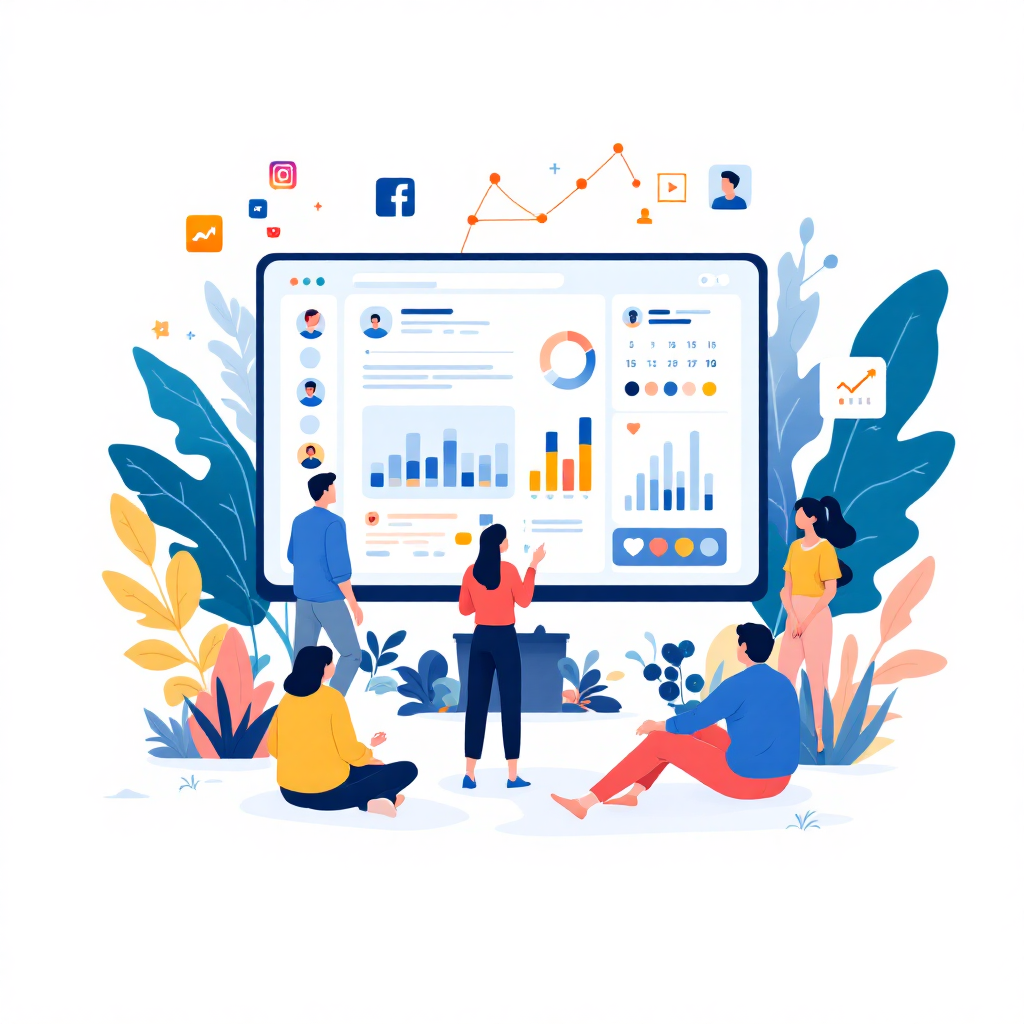
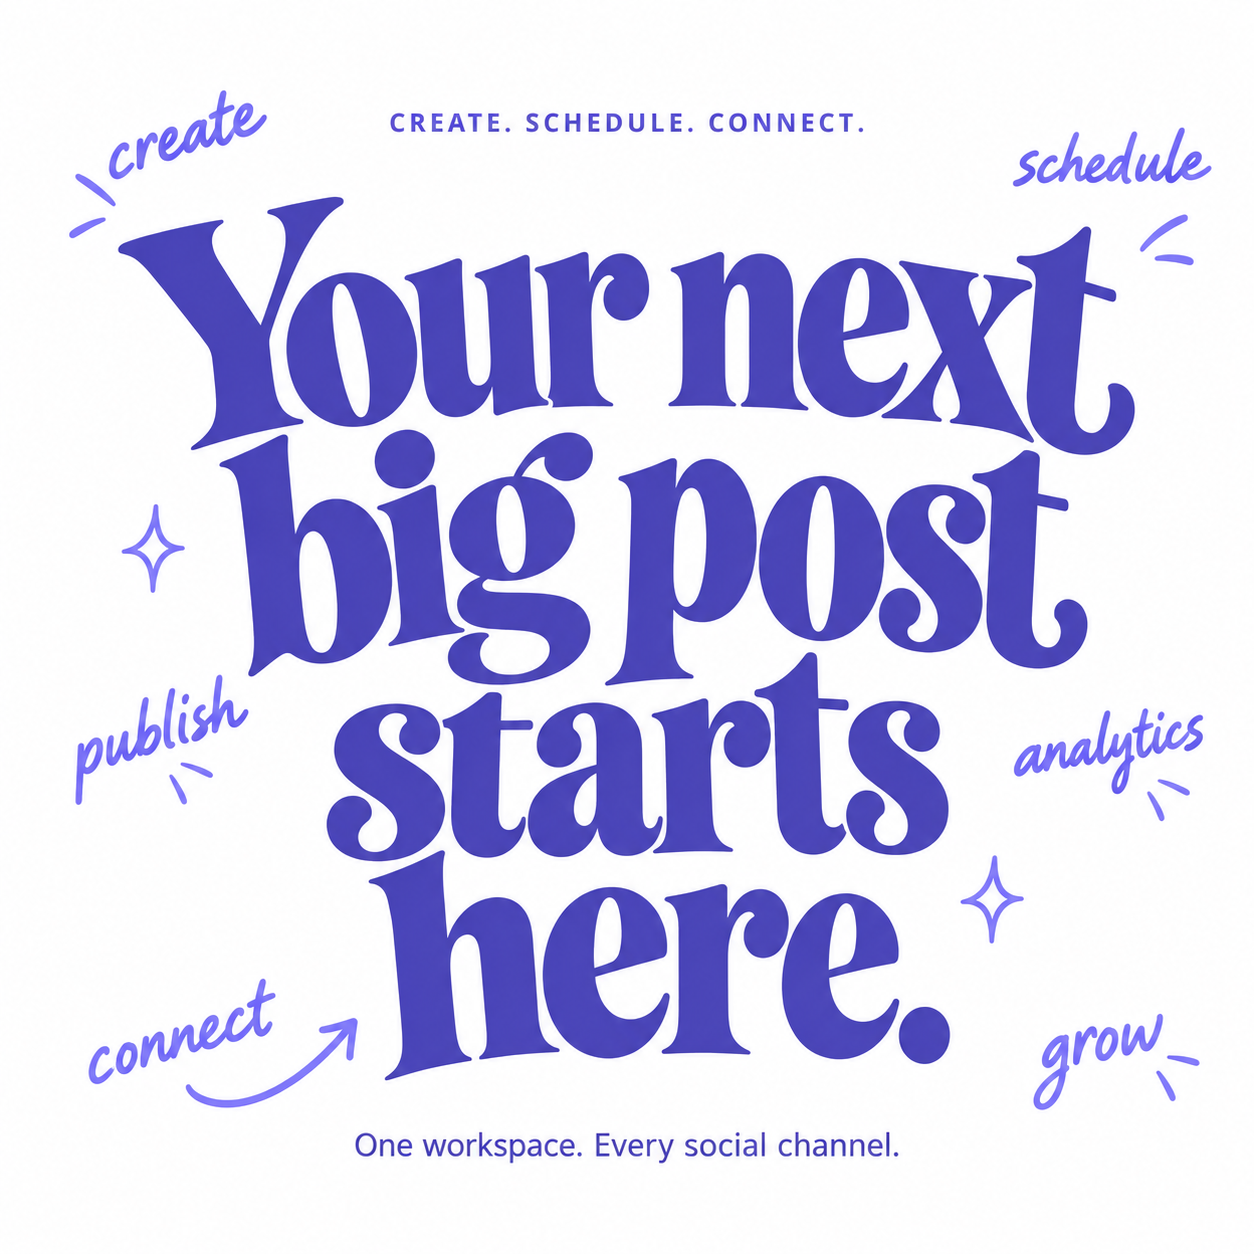
need to pull main

diff --git a/frontend/pages/Home/MainContent.tsx b/frontend/pages/Home/MainContent.tsx
@@ -287,10 +287,6 @@ export default function MainContent() {
                 <p className={styles.aiCaptionText}>{AI_BEFORE_CAPTION}</p>
               </div>
 
-              <span className={styles.aiArrow} aria-hidden="true">
-                {Icon.send}
-              </span>
-
               <div className={`${styles.aiCaptionBlock} ${styles.aiCaptionAfter}`}>
                 <span className={styles.aiCaptionLabel}>After</span>
                 <p className={styles.aiCaptionText}>{AI_AFTER_CAPTION}</p>
@@ -376,10 +372,15 @@ export default function MainContent() {
           </p>
         </div>
         <div className={styles.screenshotVisual}>
-          <div className={styles.appMockupStandard}>
-            {/* Swap for <Image src="/images/calendar-preview.png" alt="Planning calendar" fill /> */}
-            <span className={styles.placeholderIcon}>{Icon.calendar}</span>
-            <span className={styles.placeholderText}>Add your Planning Calendar screenshot here</span>
+          <div className={`${styles.appMockupStandard} ${styles.sampleDashboardFrame}`}>
+            <Image
+              src="/calimg.png"
+              alt="Sample monthly content calendar with scheduled posts for multiple social platforms"
+              width={2880}
+              height={1624}
+              className={styles.sampleDashboardImage}
+              sizes="(max-width: 980px) calc(100vw - 48px), 50vw"
+            />
           </div>
         </div>
       </section>
@@ -387,10 +388,15 @@ export default function MainContent() {
       {/* 8. ANALYTICS PREVIEW */}
       <section className={styles.screenshotSectionAlt} id="analytics">
         <div className={styles.screenshotVisual}>
-          <div className={styles.appMockupStandard}>
-            {/* Swap for <Image src="/images/analytics-preview.png" alt="Analytics dashboard" fill /> */}
-            <span className={styles.placeholderIcon}>{Icon.barChart}</span>
-            <span className={styles.placeholderText}>Add your Analytics Dashboard screenshot here</span>
+          <div className={`${styles.appMockupStandard} ${styles.sampleDashboardFrame} ${styles.analyticsDashboardFrame}`}>
+            <Image
+              src="/analyticsimg.png"
+              alt="Sample YouTube analytics dashboard with performance metrics and a views, likes, and comments chart"
+              width={1596}
+              height={1260}
+              className={styles.sampleDashboardImage}
+              sizes="(max-width: 980px) calc(100vw - 48px), 50vw"
+            />
           </div>
         </div>
         <div className={styles.screenshotText}>

diff --git a/frontend/pages/Auth/register.tsx b/frontend/pages/Auth/register.tsx
@@ -112,7 +112,7 @@ export default function SignupPage() {
         {/* HEADER */}
         <header className={styles.authHeader}>
           <div className={styles.logo}>
-            SOci
+            Socia
           </div>
         </header>
 
@@ -214,7 +214,10 @@ export default function SignupPage() {
 
           {/* RIGHT */}
           <section className={styles.illustrationSection}>
-            <img src="/registerimg.png" alt="Register illustration" />
+            <img
+              src="/registerimg.png"
+              alt="Socia: Your social world, all together. Content creation, community, analytics, brand planning, post scheduling, and social publishing."
+            />
           </section>
         </main>
 
@@ -226,7 +229,7 @@ export default function SignupPage() {
           <span>Privacy Policy</span>
           <span>Cookie Policy</span>
           <span>Accessibility</span>
-          <span>© 2026 SOci.</span>
+          <span>© 2026 Socia.</span>
         </footer>
       </div>
 

diff --git a/frontend/styles/HomeCSS/MainContent.module.css b/frontend/styles/HomeCSS/MainContent.module.css
@@ -680,22 +680,6 @@
   color: var(--ink);
 }
 
-.aiArrow {
-  align-self: center;
-  display: inline-flex;
-  width: 22px;
-  height: 22px;
-  align-items: center;
-  justify-content: center;
-  color: var(--secondary);
-  transform: rotate(90deg);
-}
-
-.aiArrow svg {
-  width: 14px;
-  height: 14px;
-}
-
 .aiTagRow {
   display: flex;
   flex-wrap: wrap;
@@ -870,6 +854,23 @@
   height: 100%;
   object-fit: contain;
   object-position: center;
+}
+
+.sampleDashboardFrame {
+  aspect-ratio: 2880 / 1624;
+  border-style: solid;
+  background: #fff;
+}
+
+.analyticsDashboardFrame {
+  aspect-ratio: 1596 / 1260;
+}
+
+.sampleDashboardImage {
+  display: block;
+  width: 100%;
+  height: 100%;
+  object-fit: cover;
 }
 
 .placeholderIcon {

diff --git a/frontend/styles/AuthCSS/Register.module.css b/frontend/styles/AuthCSS/Register.module.css
@@ -18,11 +18,11 @@
 }
 
 .logo {
-  font-family: "Poppins", "Inter", sans-serif;
-  font-size: 32px;
-  font-weight: 720;
-  color: #17172b;
-  letter-spacing: 0;
+  font-family: "Playfair Display", Georgia, serif;
+  font-size: 40px;
+  font-weight: 500;
+  color: #4f4cbe;
+  letter-spacing: -0.01em;
   line-height: 1;
 }
 
@@ -299,6 +299,8 @@
 }
 
 .illustrationSection {
+  position: relative;
+  transform: translateX(24px);
   min-height: 520px;
   padding: 0;
   border: 0;
@@ -312,7 +314,7 @@
 
 .illustrationSection img {
   display: block;
-  width: min(100%, 520px);
+  width: min(100%, 560px);
   max-height: 540px;
   height: auto;
   object-fit: contain;

diff --git a/frontend/pages/Auth/preloading.tsx b/frontend/pages/Auth/preloading.tsx
@@ -48,7 +48,7 @@ export default function PreloadingPage() {
     <main className={styles.page} aria-label="Loading dashboard">
       <div className={styles.loaderContent}>
         <h1 className={styles.logo}>
-          SOci
+          Socia
         </h1>
         <p className={styles.loadingText}>Preparing your workspace</p>
         <div className={styles.progressTrack} aria-hidden="true">

diff --git a/frontend/pages/Landing/LHeader.tsx b/frontend/pages/Landing/LHeader.tsx
@@ -167,7 +167,7 @@ const LHeader: React.FC<LHeaderProps> = () => {
     <header className={styles.header}>
       {/* Logo */}
       <div className={styles.logo}>
-        SOci
+        Socia
       </div>
 
       {/* Platforms */}

diff --git a/frontend/styles/HomeCSS/Header.module.css b/frontend/styles/HomeCSS/Header.module.css
@@ -115,7 +115,7 @@
 
 .dropdownMenu {
   position: absolute;
-  top: calc(100% + 2px);
+  top: calc(100% + 10px);
   left: 50%;
   z-index: 20;
   width: 310px;

diff --git a/frontend/styles/AuthCSS/login.module.css b/frontend/styles/AuthCSS/login.module.css
@@ -269,6 +269,7 @@
 
 .illustrationSection {
   position: relative;
+  transform: translateX(24px);
   min-height: 520px;
   padding: 0;
   border: 0;
